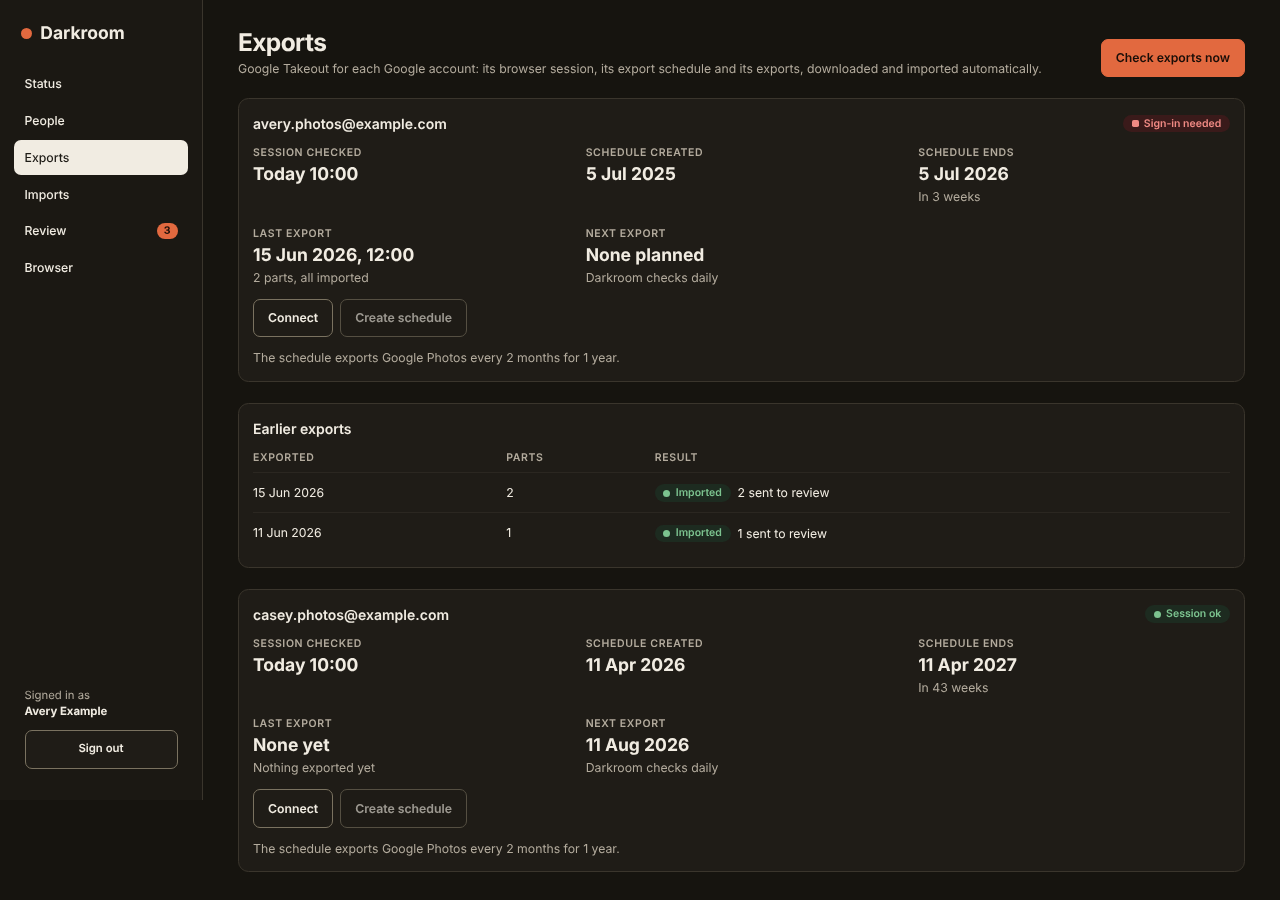
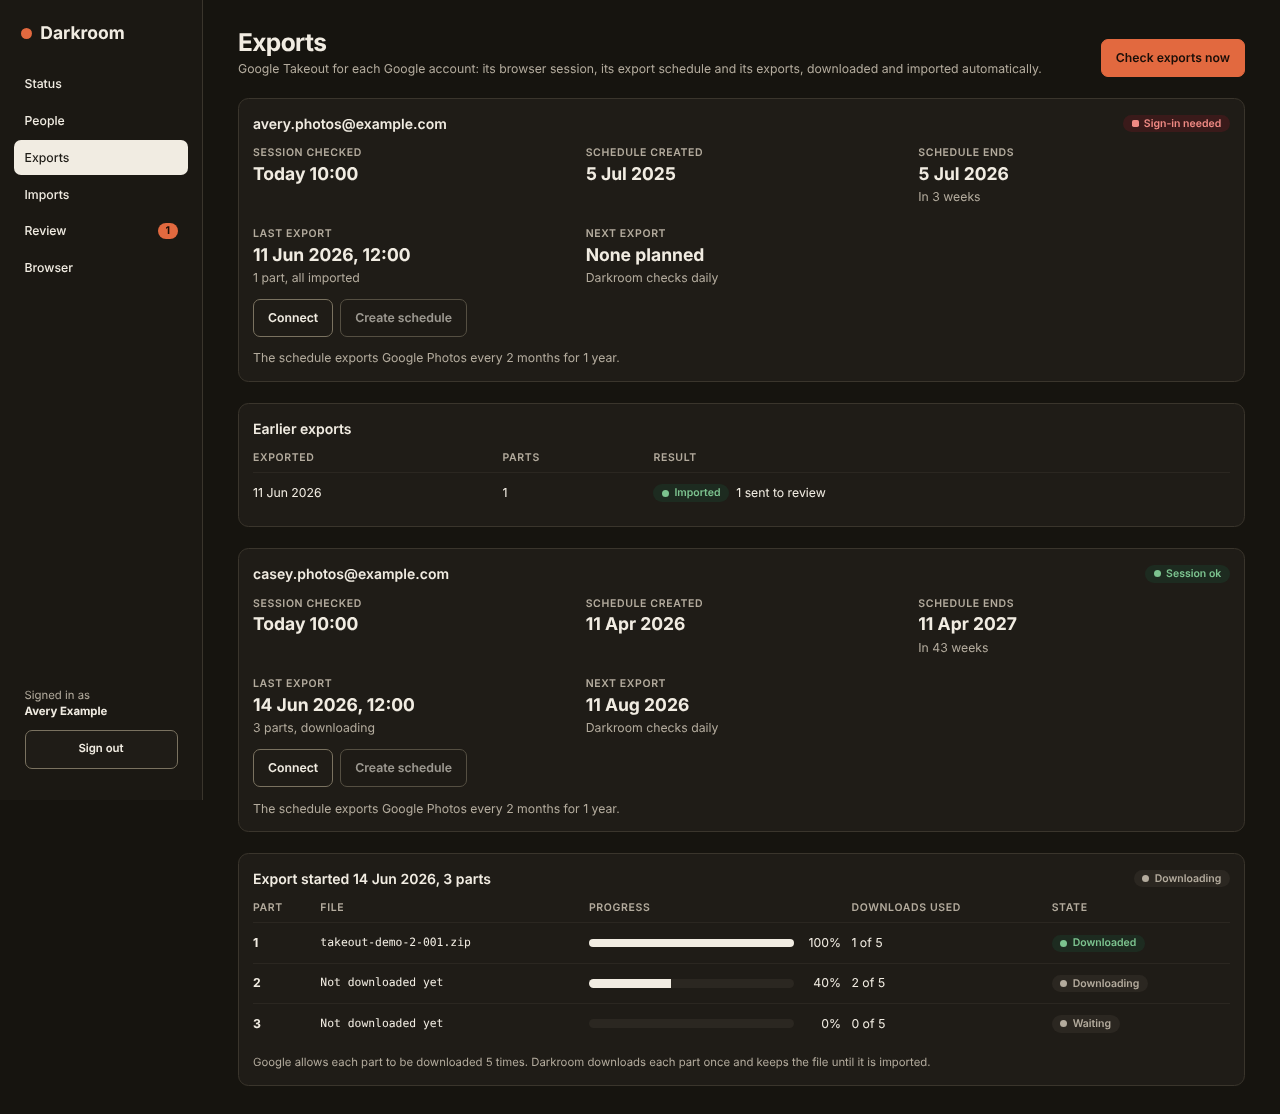
feat: show the Takeout download job and part progress on the Exports page (#119)

diff --git a/frontend/src/pages/Exports.svelte.test.ts b/frontend/src/pages/Exports.svelte.test.ts
@@ -308,6 +308,27 @@ describe("the Exports page", () => {
     expect(view.sent("GET /api/exports")).toHaveLength(1);
   });
 
+  it("says how a running download is going", async () => {
+    const running = { ...waitingConnect, id: 9, account_id: 10, kind: "download", status: "running", message: "downloading part 2 of 3" };
+    show({ "GET /api/accounts": { accounts: [joAccount] }, "GET /api/browser/jobs": { jobs: [running] } });
+    const jo = await screen.findByRole("region", { name: "jo.photos@example.com" });
+    expect(within(jo).getByText("Download: running, downloading part 2 of 3.")).toBeInTheDocument();
+    expect(within(jo).queryByRole("link", { name: "Open remote browser" })).not.toBeInTheDocument();
+  });
+
+  it("links to the remote browser when a download waits for a verification, and shows a failed download's capture", async () => {
+    const waiting = { ...waitingConnect, id: 9, account_id: 10, kind: "download", message: "verify" };
+    const failed = { ...failedSchedule, id: 13, account_id: 11, kind: "download", message: "DownloadFailed: part 2 failed after 3 attempts" };
+    show({ "GET /api/accounts": { accounts: [joAccount, familyAccount] }, "GET /api/browser/jobs": { jobs: [waiting, failed] } });
+    const jo = await screen.findByRole("region", { name: "jo.photos@example.com" });
+    expect(within(jo).getByText("Download: waiting for you to sign in.")).toBeInTheDocument();
+    expect(within(jo).getByRole("link", { name: "Open remote browser" })).toBeInTheDocument();
+    const family = screen.getByRole("region", { name: "family.photos@example.com" });
+    expect(within(family).getByText("Download: failed, part 2 failed after 3 attempts.")).toBeInTheDocument();
+    expect(within(family).getByText(/Capture of the failed Download/)).toBeInTheDocument();
+    expect(within(family).getByRole("link", { name: "screenshot" })).toHaveAttribute("href", "/api/browser/failures/13/screenshot.png");
+  });
+
   it("shows why a check failed, with its capture", async () => {
     const failed = { ...failedSchedule, id: 12, kind: "status", message: "ExportsUnreadable: Takeout's list of exports did not load" };
     show({ "GET /api/accounts": { accounts: [joAccount] }, "GET /api/browser/jobs": { jobs: [failed] } });

diff --git a/frontend/src/pages/Exports.svelte b/frontend/src/pages/Exports.svelte
@@ -90,7 +90,8 @@
       {@const maybe = maybeCreated(data.jobs, account.id)}
       {@const failed = failedCaptures(data.jobs, account.id)}
       {@const checking = openJob(data.jobs, account.id, "status")}
-      {@const notes = [jobSentence(connecting ?? latestJob(data.jobs, account.id, "connect"), "Connect"), jobSentence(scheduling ?? latestJob(data.jobs, account.id, "schedule"), "Create schedule"), jobSentence(checking ?? latestJob(data.jobs, account.id, "status"), "Check exports")].filter((note) => note !== null)}
+      {@const downloading = openJob(data.jobs, account.id, "download")}
+      {@const notes = [jobSentence(connecting ?? latestJob(data.jobs, account.id, "connect"), "Connect"), jobSentence(scheduling ?? latestJob(data.jobs, account.id, "schedule"), "Create schedule"), jobSentence(checking ?? latestJob(data.jobs, account.id, "status"), "Check exports"), jobSentence(downloading ?? latestJob(data.jobs, account.id, "download"), "Download")].filter((note) => note !== null)}
       {@const mine = accountExports(data.exports, account.id)}
       {@const current = currentExport(mine)}
       {@const earlier = earlierExports(mine, current)}
@@ -148,7 +149,7 @@
           </div>
         {/if}
         <div class="flex flex-col gap-2 md:flex-row md:flex-wrap">
-          {#if connecting?.status === "waiting_for_user" || scheduling?.status === "waiting_for_user" || checking?.status === "waiting_for_user"}
+          {#if [connecting, scheduling, checking, downloading].some((job) => job?.status === "waiting_for_user")}
             <a class="btn btn-primary" href="/browser" onclick={(e) => followLink(e, "/browser")}>Open remote browser</a>
           {/if}
           <button type="button" class="btn" disabled={busy > 0 || connecting !== undefined} onclick={() => connect(account.id)}>Connect</button>

diff --git a/frontend/src/lib/view.ts b/frontend/src/lib/view.ts
@@ -57,7 +57,7 @@ export function failureReason(job: BrowserJobView): string {
 }
 
 export function failedCaptures(jobs: readonly BrowserJobView[], accountId: number): BrowserJobView[] {
-  const latest = [latestJob(jobs, accountId, "connect"), latestJob(jobs, accountId, "schedule"), latestJob(jobs, accountId, "status")];
+  const latest = [latestJob(jobs, accountId, "connect"), latestJob(jobs, accountId, "schedule"), latestJob(jobs, accountId, "status"), latestJob(jobs, accountId, "download")];
   return latest.flatMap((job) => (job !== undefined && job.status === "failed" && job.capture_files.length > 0 ? [job] : []));
 }
 
@@ -82,7 +82,7 @@ export function workerChip(lastSeen: number | null, now: number): { tone: Tone; 
   return now - lastSeen <= 120 ? { tone: "ok", label: "Connected" } : { tone: "bad", label: "Worker not responding" };
 }
 
-export const JOB_NAMES: Record<string, string> = { connect: "Connect", schedule: "Create schedule", status: "Check exports" };
+export const JOB_NAMES: Record<string, string> = { connect: "Connect", schedule: "Create schedule", status: "Check exports", download: "Download" };
 
 const ACTIVE = ["announced", "downloading", "downloaded", "unpacking", "importing"];
 

diff --git a/tests/test_demo.py b/tests/test_demo.py
@@ -17,7 +17,7 @@ from sqlalchemy import MetaData, select
 import run
 from darkroom import tls
 from darkroom.dates import utc_now
-from darkroom.domain import accounts, alerts, browser_jobs, demo, events
+from darkroom.domain import accounts, alerts, browser_jobs, demo, events, exports
 from darkroom.providers import exiftool
 from darkroom.server import auth
 from darkroom.storage import db
@@ -165,7 +165,7 @@ class SeededDemo(unittest.TestCase):
 
     def test_one_imported_export_shows_a_run_and_one_pending_review_pair_with_its_held_copy(self):
         exports = self.rows(Export)
-        self.assertEqual([(e.status, e.kind) for e in exports], [("imported", "incremental")])
+        self.assertEqual([(e.status, e.kind) for e in exports], [("imported", "incremental"), ("downloading", "incremental")])
         runs = self.rows(ImportRun)
         self.assertEqual([(r.status, r.added, r.review, r.missing_gps) for r in runs], [("done", 2, 1, 3)])
         reviews = self.rows(ReviewItem)
@@ -208,9 +208,16 @@ class SeededDemo(unittest.TestCase):
                     self.assertEqual([r.status for r in opened.query(ReviewItem).all()], ["pending"])
 
     def test_the_imported_export_has_its_part_downloaded(self):
-        (part,) = self.rows(ExportPart)
+        part = self.rows(ExportPart)[0]
         self.assertEqual((part.status, part.downloads_used), ("done", 1))
         self.assertGreater(part.bytes, 0)
+
+    def test_a_second_export_is_part_way_through_its_download(self):
+        parts = self.rows(ExportPart)[1:]
+        self.assertEqual([(part.number, part.status) for part in parts], [(1, "done"), (2, "downloading"), (3, "pending")])
+        with db.session(self.engine) as opened:
+            export = opened.get(Export, parts[0].export_id)
+            self.assertEqual([each["progress"] for each in exports.as_dict(opened, export)["parts"]], [100, 40, 0])
 
     def test_a_seed_for_another_day_moves_with_it(self):
         with tempfile.TemporaryDirectory() as folder:

diff --git a/darkroom/domain/demo.py b/darkroom/domain/demo.py
@@ -276,6 +276,19 @@ def seed_import(opened: Session, photos: Photos, people: dict[str, Person], toda
                           hold_sha1=media.sha1_of(hold)[0]))
 
 
+def seed_download(opened: Session, now: float) -> None:
+    owner = opened.execute(select(Person).where(Person.slug == "casey")).scalar_one()
+    account = opened.execute(select(GoogleAccount).where(GoogleAccount.default_person_id == owner.id)).scalar_one()
+    export = Export(account_id=account.id, kind="incremental", google_id="demo-export-2", created_at=now - DAY, ready_at=now - 2 * HOUR,
+                    expires_at=now + 7 * DAY - 2 * HOUR, part_count=3, status="downloading", download_tries=0)
+    opened.add(export)
+    opened.flush()
+    opened.add(ExportPart(export_id=export.id, number=1, filename="takeout-demo-2-001.zip", bytes=3_200_000, bytes_done=3_200_000, downloads_used=1, attempts=1,
+                          status="done"))
+    opened.add(ExportPart(export_id=export.id, number=2, bytes=3_100_000, bytes_done=1_240_000, downloads_used=2, attempts=2, status="downloading"))
+    opened.add(ExportPart(export_id=export.id, number=3, bytes=1_800_000, status="pending"))
+
+
 def seed(opened: Session, photos: Photos, settings: Settings, today: date) -> Summary:
     now = noon(today)
     people: dict[str, Person] = {}
@@ -287,6 +300,7 @@ def seed(opened: Session, photos: Photos, settings: Settings, today: date) -> Su
     opened_alerts = sum(seed_account(opened, settings, people, spec, now) for spec in ACCOUNTS)
     opened.flush()
     seed_import(opened, photos, people, today, now)
+    seed_download(opened, now)
     opened.flush()
     return Summary(len(PEOPLE), len(ACCOUNTS), len(ACCOUNTS), len(PEOPLE), originals, indexed, failed, opened_alerts)
 

diff --git a/.claude/skills/verify-darkroom/references/feature-map.md b/.claude/skills/verify-darkroom/references/feature-map.md
@@ -62,6 +62,13 @@ What a person can do in the web app, by page: how to reach it, how to drive it w
 
 ### Flows on Exports
 
+#### `exports-download`
+
+- **Starts at:** `exports`.
+- **Widths:** phone, desktop.
+- **Expects to see:** `Exports`, `Downloading`, `40%`, `2 of 5`.
+- **Drive it:** `tools/control flow exports-download`; or `poetry run python tools/verify.py run --flow exports-download`.
+
 #### `exports`
 
 - **Starts at:** `exports`.
